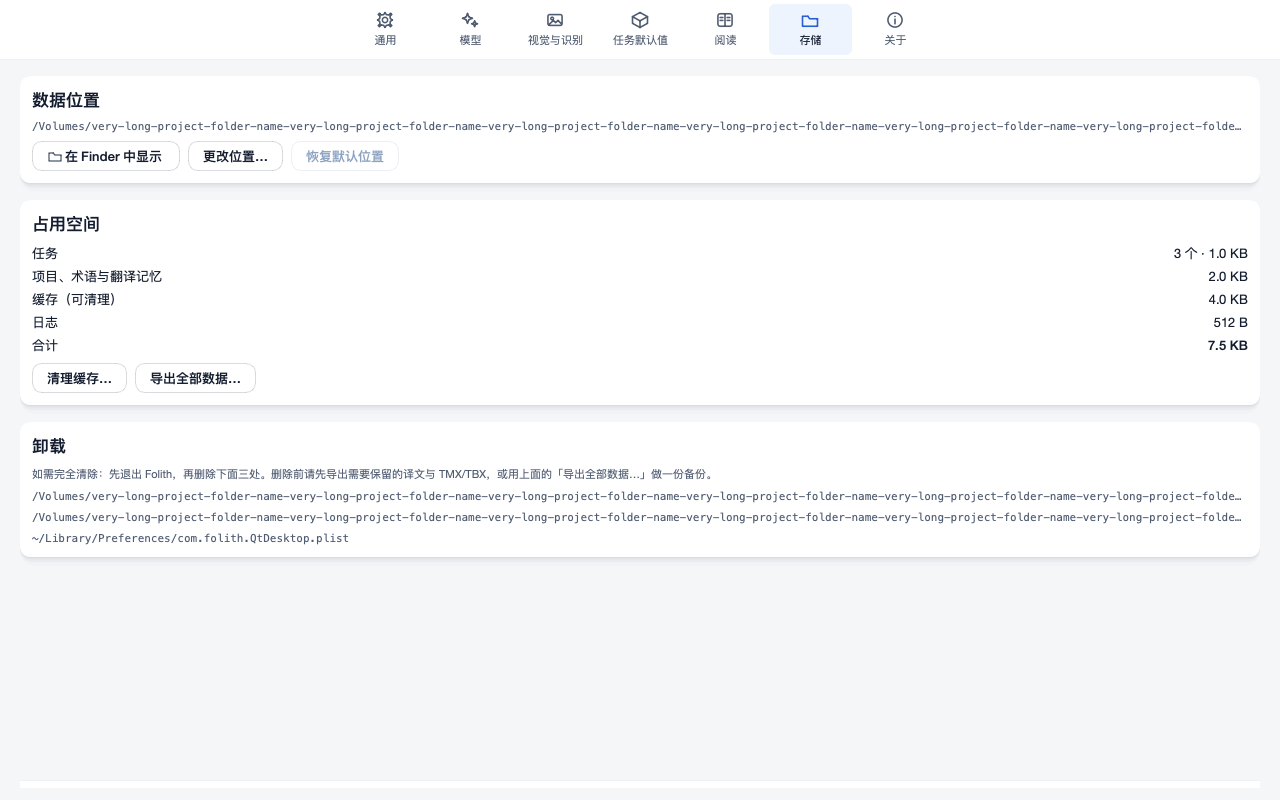
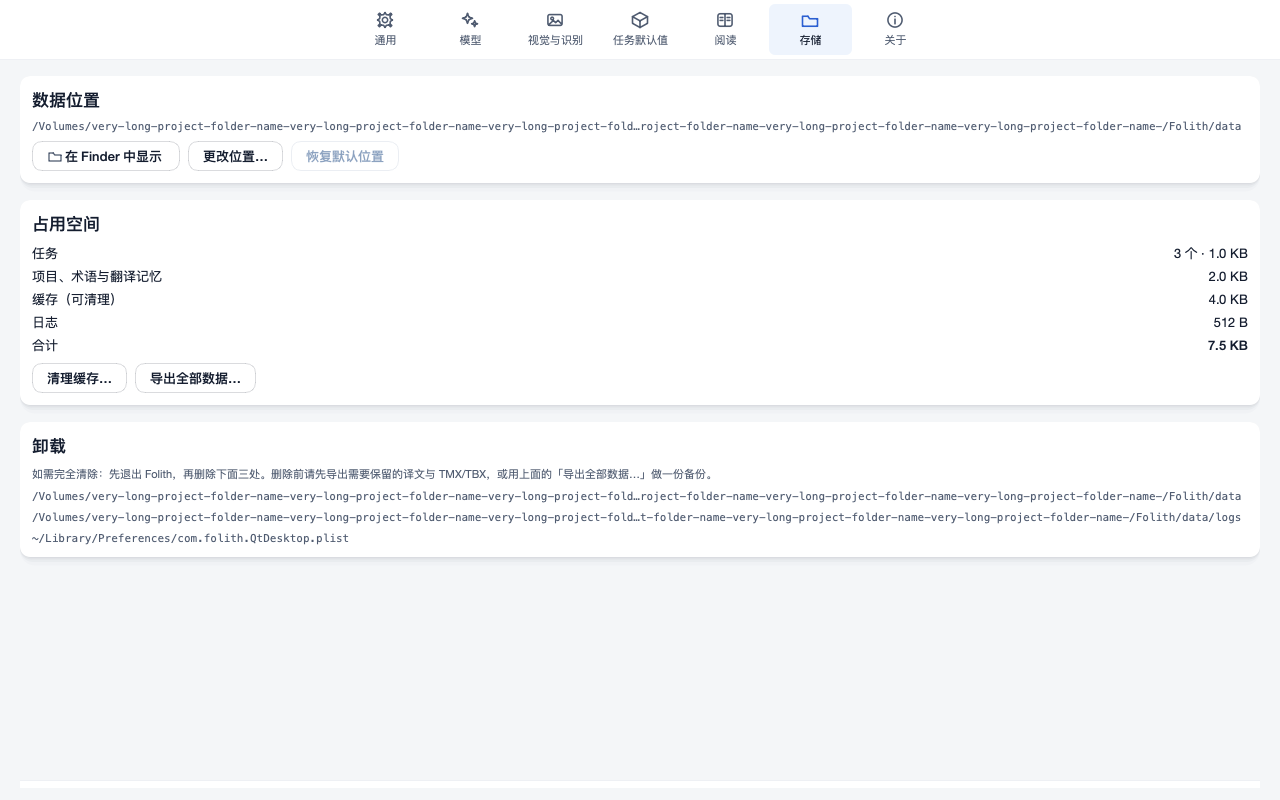
ci: rerun checks after C-37 storage fix

diff --git a/folith/qt/settings_pages.py b/folith/qt/settings_pages.py
@@ -92,7 +92,7 @@ class StoragePage(QWidget):
             i18n.tr('数据位置'),
             i18n.tr('任务、术语、翻译记忆都保存在这台{v0}上；API 密钥只在本机，不会上传。', v0=platform_ui.device_name()))
         from .style import ElideLabel
-        self.path_label = ElideLabel("")
+        self.path_label = ElideLabel("", mode=Qt.TextElideMode.ElideMiddle)
         self.path_label.setObjectName("monoValue")
         self.path_label.setTextInteractionFlags(Qt.TextInteractionFlag.TextSelectableByMouse)
         self.reveal_button = QPushButton(i18n.tr('在 {v0} 中显示', v0=platform_ui.file_manager_name()))
@@ -177,7 +177,7 @@ class StoragePage(QWidget):
         # 以前合成一个多行标签会被当成一行省略，日志/plist 两条直接消失。
         self.cleanup_path_labels: list[ElideLabel] = []
         for line in cleanup_paths_text().splitlines():
-            label = ElideLabel(line)
+            label = ElideLabel(line, mode=Qt.TextElideMode.ElideMiddle)
             label.setObjectName("monoValue")
             label.setTextInteractionFlags(Qt.TextInteractionFlag.TextSelectableByMouse)
             uninstall_body.addWidget(label)

diff --git a/tests/qt_storage_page_bug_test.py b/tests/qt_storage_page_bug_test.py
@@ -65,3 +65,20 @@ def test_all_three_cleanup_paths_survive_apply(app):
     for label, full in zip(page.cleanup_path_labels, expected):
         assert label.isVisible() or not label.isHidden()
         assert label.toolTip() == full
+
+
+def test_long_paths_use_middle_elision(app):
+    from PySide6.QtCore import Qt
+
+    page = settings_pages.StoragePage(None)
+    long_path = "/Volumes/" + "very-long-folder-" * 20 + "/Folith/data"
+    assert page.path_label._mode == Qt.TextElideMode.ElideMiddle
+    assert all(label._mode == Qt.TextElideMode.ElideMiddle
+               for label in page.cleanup_path_labels)
+    page.path_label.setText(long_path)
+    page.path_label.resize(400, 20)
+    app.processEvents()
+    shown = page.path_label.text()
+    assert "…" in shown, shown
+    assert shown.endswith("Folith/data"), shown
+    assert shown.startswith("/Volumes/"), shown

diff --git a/docs/evidence/0.8.3-c35-storage-bugs.md b/docs/evidence/0.8.3-c35-storage-bugs.md
@@ -38,3 +38,11 @@ reveal 文案来自 platform_ui 且带空格。`qt_i18n_test.py` + `qt_client_wi
 数据位置那行 321 字符路径也确实中间省略（以 `…` 收尾），没有把面板撑宽。
 测试 `test_all_three_cleanup_paths_survive_apply` 断言三条可见且 tooltip 完整；
 变异检查把三条改成单个多行标签 → 该用例变红。
+
+## C-38 返修：路径中间省略（ElideMiddle）
+
+数据位置与三条卸载路径统一传 `mode=Qt.TextElideMode.ElideMiddle`。重拍的
+[storage-long-path-260-1280-light.png](c35-storage/storage-long-path-260-1280-light.png)
+里两条长路径的尾部 `/Folith/data` 与 `/Folith/data/logs` 都保留，能区分要删哪个文件夹；
+`test_long_paths_use_middle_elision` 断言 `text()` 含省略号且以完整最后一段结尾，
+变异检查改回 ElideRight → 该用例变红。5 条测试通过。
